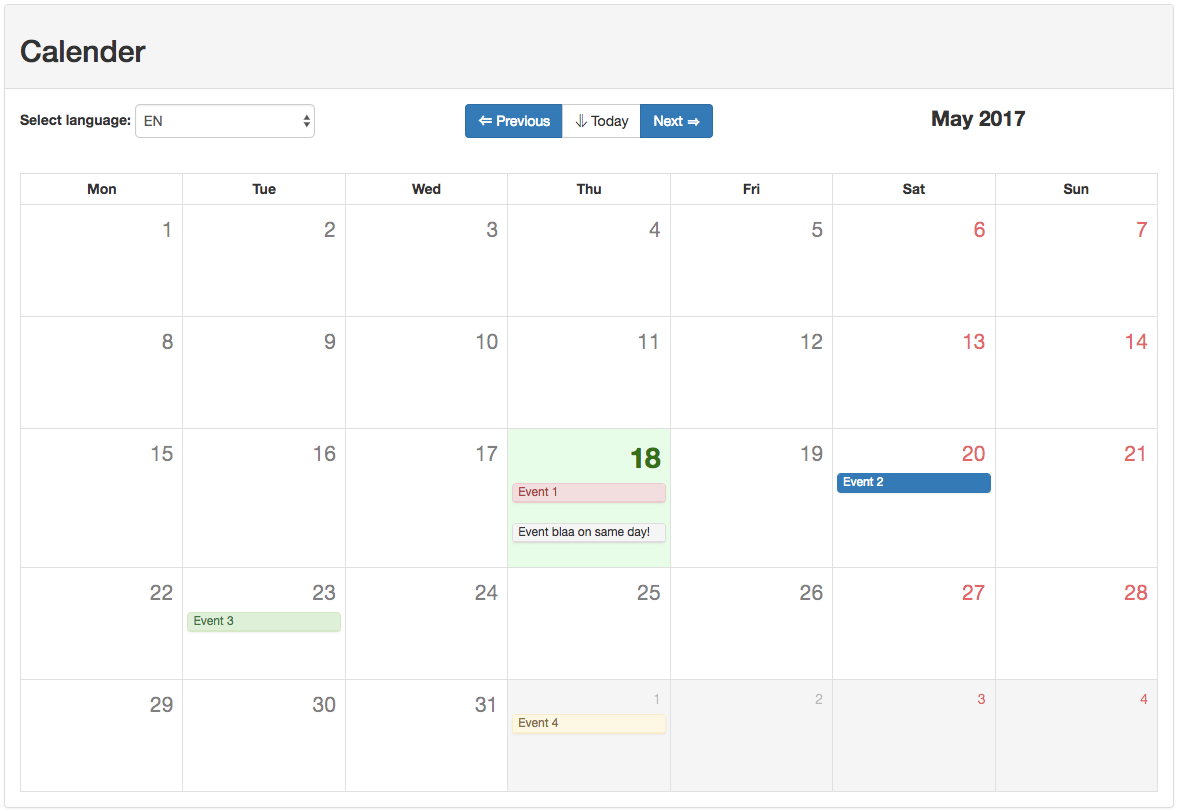
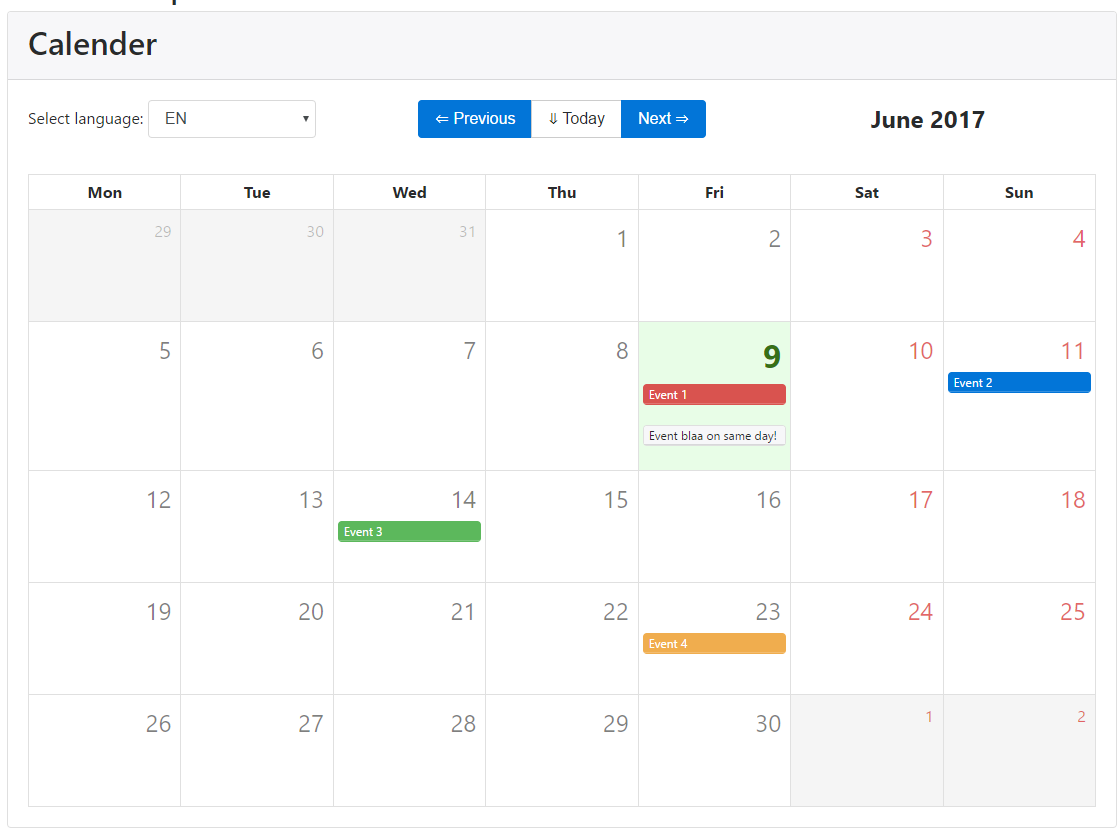
Changed demo image to reflect bootstrap 4 changes

diff --git a/README.md b/README.md
@@ -3,7 +3,7 @@
 > Uses the magical power of VueJS v2 and beauty of Twitter Bootstraps (v4) to create a powerful Responsive Calendar App. See the [Demo site](https://eazyserver.github.io/Vue-Bootstrap-Calendar/).
 
 
-![Demo Vue Bootstrap Calendar](https://raw.githubusercontent.com/EazyServer/Vue-Bootstrap-Calendar/master/assets/vue-bootstrap-calendar.png)
+![Demo Vue Bootstrap Calendar](https://github.com/ExCluSiv3/Vue-Bootstrap-Calendar/blob/bootstrap4/assets/vue-bootstrap-calendar.png)
 
 
 The calender only uses bootstrap ``CSS``, NO ``bootstrap.js`` or ``jquery.js`` is needed for this project. Its purely Vue2 implementation.
